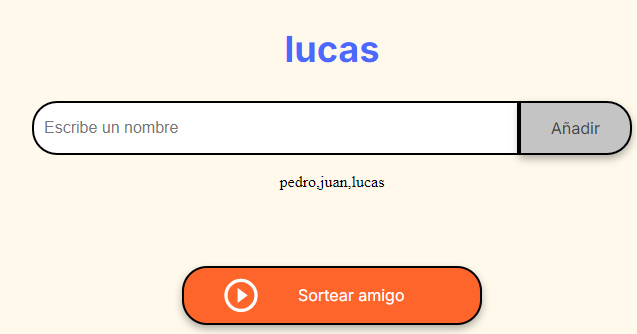
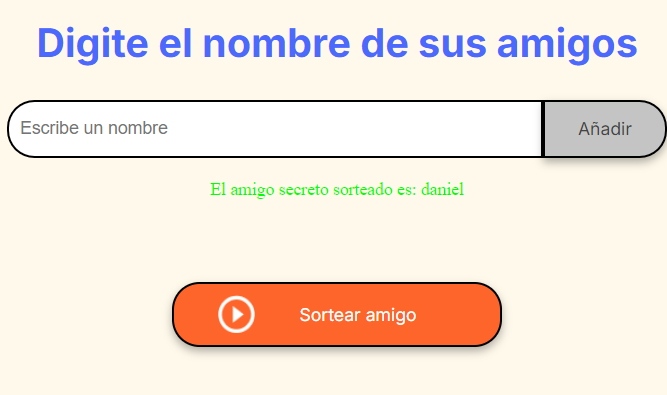
finalizado

diff --git a/app.js b/app.js
@@ -9,6 +9,7 @@ function asignarTextoElemento(elemento, texto){
     etiqueta.innerHTML=texto
 };
 
+
 function agregarAmigo(){
     //Estable la entrada de dato en minuscula y elimina los espacios vacios
     datoEntrada= document.getElementById('amigo').value.toLowerCase().trim();
@@ -20,40 +21,44 @@ function agregarAmigo(){
     for(i of datoEntrada){
         // console.log(i)
         if(i in listaNumeros ){
-            return asignarTextoElemento('#descripcion', "Ingrese un nombre valido"); 
+            return alert("Ingrese un nombre valido");
         }
     }
 
     if  (datoEntrada=='' || datoEntrada.length<3)    {   
-        asignarTextoElemento('#descripcion', "Ingrese un nombre valido");
+        alert("Ingrese un nombre valido");
     }else{
         if  (listaAmigos.includes(datoEntrada)){
-            asignarTextoElemento('#descripcion', "El nombre ingresado ya existe");
+            alert("El nombre ingresado ya existe");
         }else   {
             asignarTextoElemento('#descripcion', "");
-            listaAmigos.push(datoEntrada);
-        }
+            listaAmigos.push(` ${datoEntrada}`);
+            asignarTextoElemento('#listaAmigos',listaAmigos)
+    
     }
     //se limpia el input y muestra la lista de amigos
     document.querySelector('#amigo').value=''
-    asignarTextoElemento('#listaAmigos', listaAmigos);
+  
     // console.log(listaAmigos);
-}
+}}
 
 
 function sortearAmigo(){
     indexValor=Math.floor(Math.random()*listaAmigos.length);
     //valida que todos los nombres se sortearon 
+    asignarTextoElemento('#listaAmigos',"")
     if  (listaIndex.length===listaAmigos.length)    {
-        asignarTextoElemento('h2', "Todos los nombres fueron sorteados");
+        document.getElementById('amigos').setAttribute("style", "color: rgb(255,0, 0);");
+        asignarTextoElemento('#amigos', "Todos los nombres fueron sorteados");
     }else   {
         //valida que el valor aleatorio seleccionado se haya seleccionado previamente
         if (listaIndex.includes(indexValor))    {
                 sortearAmigo();
         }else   {
                 listaIndex.push(indexValor);
-                asignarTextoElemento('h2', listaAmigos[indexValor] );
+                
+                document.getElementById('amigos').setAttribute("style", "color: rgb(0, 255, 0);");
+                asignarTextoElemento('#amigos', `El amigo secreto sorteado es: ${listaAmigos[indexValor]}`);
             }
     }
 }
-

diff --git a/index.html b/index.html
@@ -22,10 +22,10 @@
             <p id="descripcion"></p>
             <div class="input-wrapper">
                 <input type="text" id="amigo" class="input-name" placeholder="Escribe un nombre">
-                <button class="button-add" onclick="agregarAmigo()">Añadir</button>
+                <button class="button-add"  onclick="agregarAmigo()">Añadir</button>
             </div>
             <br>
-           <p id="listaAmigos"></p>
+           <p  id="listaAmigos" ></p><p id="amigos" ></p>
 
             <ul id="listaAmigos" class="name-list" aria-labelledby="listaAmigos" role="list"></ul>
             <ul id="resultado" class="result-list" aria-live="polite"></ul>

diff --git a/README.md b/README.md
@@ -34,5 +34,6 @@ Cuando esten todos los nombres se realizara el sorte al oprimir el boton "sortea
 ## Informacion adicional
 
 No importa si se ingresa  un nombre con mayusculas el programa las cambiara a minusculas y cualquier espacio en blanco sera eliminado.
+
 Aunque el proyecto es funcional tiene mejoras que se pueden realiza: distinguir entre nombres y letras alazar y no aceptar simbolos 
 
